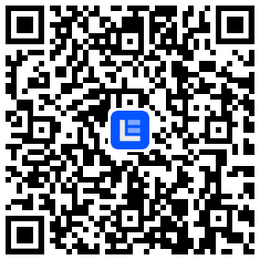
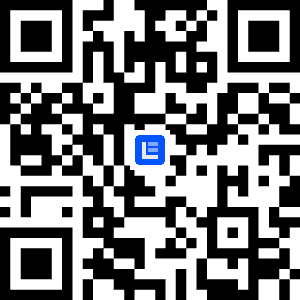
commit download

diff --git a/docs/downloads/data.js b/docs/downloads/data.js
@@ -14,11 +14,11 @@ const LinkeaseStore = {
     list: [
         {
             title: "群晖Synology",
-            url: "https://fw.koolcenter.com/binary/LinkEase/Synology/",
+            url: "https://www.linkease.com/rd/linkease-syonlogy/",
         },
         {
             title: "Qnap",
-            url: "https://fw.koolcenter.com/binary/LinkEase/QNAP/",
+            url: "https://www.linkease.com/rd/linkease-qnap/",
         },
         {
             title: "Openwrt",
@@ -45,20 +45,20 @@ const LinkeaseClient = {
     list: [
         {
             title: "Windows",
-            url: "https://fw.koolcenter.com/binary/LinkEase/Client/LinkEaseWin.zip",
+            url: "https://www.linkease.com/rd/linkease-windows/",
         },
         {
             title: "Mac",
-            url: "https://fw.koolcenter.com/binary/LinkEase/Client/LinkEase.dmg",
+            url: "https://www.linkease.com/rd/linkease-mac/",
         },
         {
             title: "iOS",
-            url: "https://apps.apple.com/cn/app/id1526441128",
+            url: "https://www.linkease.com/rd/linkease-ios/",
             qrcode: IosQrcode,
         },
         {
             title: "Android",
-            url: "https://fw.koolcenter.com/binary/LinkEase/Client/linkease.apk",
+            url: "https://www.linkease.com/rd/linkease-android/",
             qrcode: AndroidQrcode,
         },
         {
@@ -74,11 +74,11 @@ const DDNSTO = {
     list: [
         {
             title: "群晖Synology",
-            url: "https://fw.koolcenter.com/binary/ddnsto/synology/",
+            url: "https://www.linkease.com/rd/ddnsto-syonlogy/",
         },
         {
             title: "Qnap",
-            url: "https://fw.koolcenter.com/binary/ddnsto/qnap/",
+            url: "https://www.linkease.com/rd/ddnsto-qnap/",
         },
         {
             title: "Openwrt",
